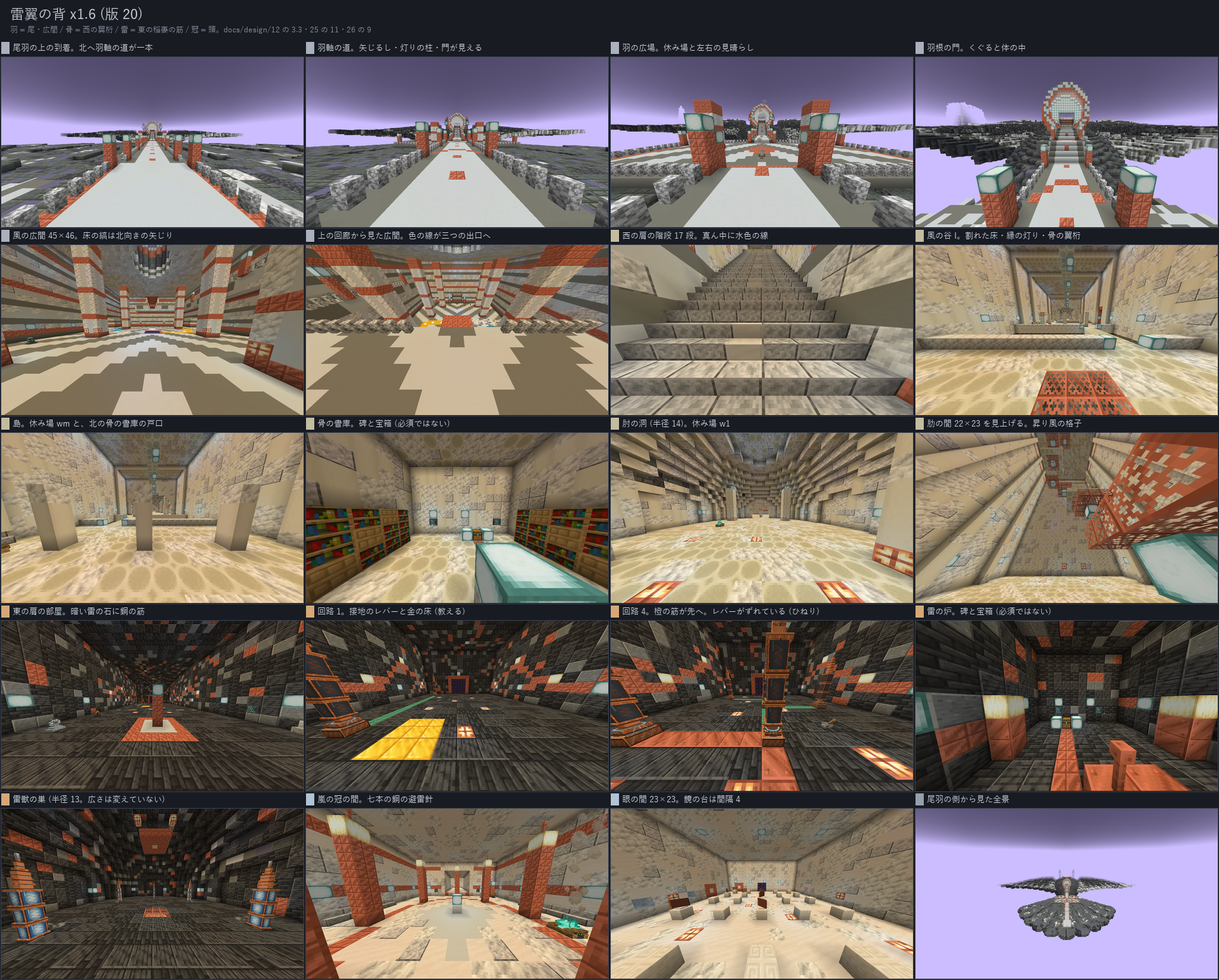
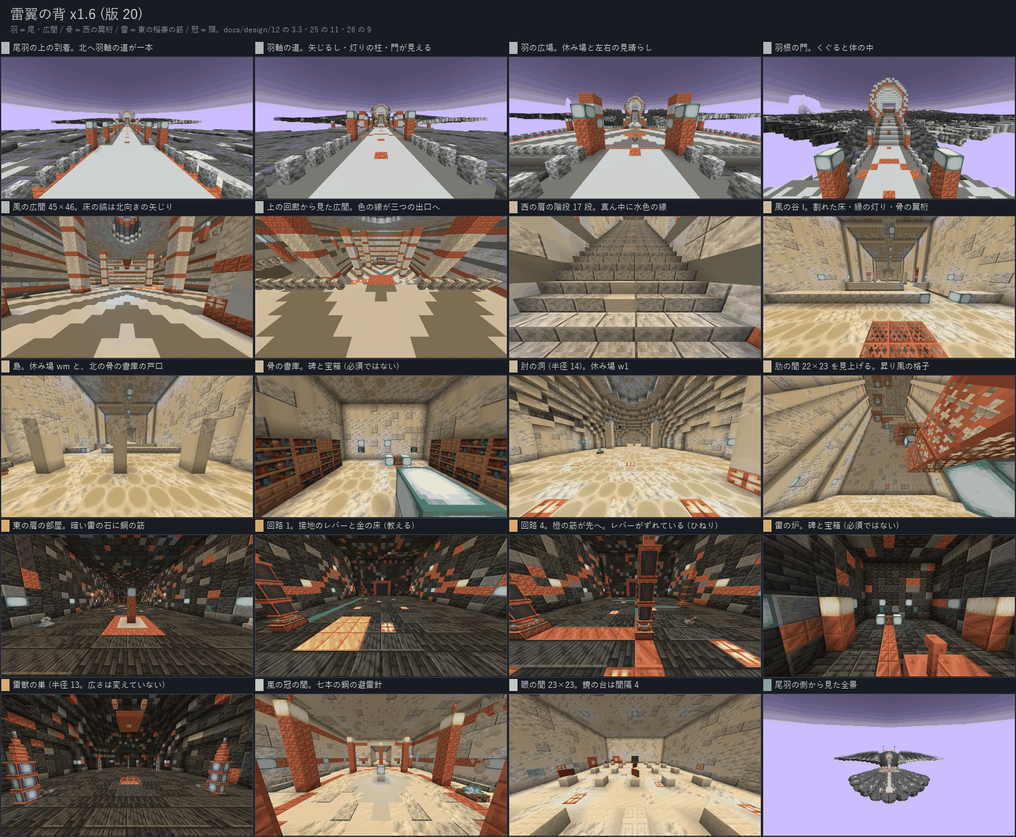
Storm back: compact review sheet

diff --git a/tools/storm_scale_sheet.py b/tools/storm_scale_sheet.py
@@ -47,7 +47,7 @@ def font(size):
     return ImageFont.truetype(FONT, size)
 
 
-W, H, COLS = 480, 270, 4
+W, H, COLS = 400, 225, 4
 rows = (len(CELLS) + COLS - 1) // COLS
 HEAD = 64
 img = Image.new("RGB", (W * COLS, HEAD + (H + 26) * rows), BG)
@@ -65,5 +65,5 @@ for i, (name, zone, label) in enumerate(CELLS):
     d.text((x + 20, y + 4), label, font=font(13), fill=TEXT)
     d.rectangle((x + 1, y + 25, x + W - 2, y + 26 + H - 1), outline=LINE)
 OUT.parent.mkdir(parents=True, exist_ok=True)
-img.save(OUT, optimize=True)
+img.convert("P", palette=Image.ADAPTIVE, colors=256).save(OUT, optimize=True)
 print(OUT, img.size)
